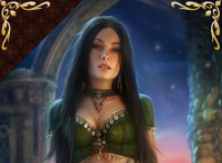
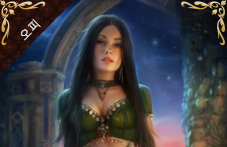
Change images design and update
Change images design and update

diff --git a/theme/NB-Basic/widget/basic-wr-gallery/widget.rows.php b/theme/NB-Basic/widget/basic-wr-gallery/widget.rows.php
@@ -88,7 +88,7 @@ for ($i=0; $i < $list_cnt; $i++) {
         <div>
             <div class="img-wrap bg-light mb-2">
 				<?php if($list[$i]['mb_2'] == "안마" ){?>
-                <div class="img-item" style="background-image:url('<?php echo G5_IMG_URL?>/anma5.png')" style="height: 148px;">
+                <div class="img-item" style="background-image:url('<?php echo G5_IMG_URL?>/anma.png')" style="height: 148px;">
 					<a href="<?php echo $list[$i]['href'] ?>"<?php echo $target ?>>
 						<?php echo $wr_tack ?>
 						<?php echo $wr_cap ?>
@@ -110,7 +110,7 @@ for ($i=0; $i < $list_cnt; $i++) {
 				</div>
 				<?php }?>
 				<?php if($list[$i]['mb_2'] == "휴게텔" ){?>
-                <div class="img-item" style="background-image:url('<?php echo G5_IMG_URL?>/yupcatel.png')" style="height: 148px;">
+                <div class="img-item" style="background-image:url('<?php echo G5_IMG_URL?>/hyugetel.png')" style="height: 148px;">
 					<a href="<?php echo $list[$i]['href'] ?>"<?php echo $target ?>>
 						<?php echo $wr_tack ?>
 						<?php echo $wr_cap ?>
@@ -121,7 +121,7 @@ for ($i=0; $i < $list_cnt; $i++) {
 				</div>
 				<?php }?>
 				<?php if($list[$i]['mb_2'] == "건마" ){?>
-                <div class="img-item" style="background-image:url('<?php echo G5_IMG_URL?>/gonma5.png')" style="height: 148px;">
+                <div class="img-item" style="background-image:url('<?php echo G5_IMG_URL?>/gonma.png')" style="height: 148px;">
 					<a href="<?php echo $list[$i]['href'] ?>"<?php echo $target ?>>
 						<?php echo $wr_tack ?>
 						<?php echo $wr_cap ?>
@@ -132,7 +132,7 @@ for ($i=0; $i < $list_cnt; $i++) {
 				</div>
 				<?php }?>
 				<?php if($list[$i]['mb_2'] == "립카페" ){?>
-                <div class="img-item" style="background-image:url('<?php echo G5_IMG_URL?>/cafe5.png')" style="height: 148px;">
+                <div class="img-item" style="background-image:url('<?php echo G5_IMG_URL?>/gibcafe.png')" style="height: 148px;">
 					<a href="<?php echo $list[$i]['href'] ?>"<?php echo $target ?>>
 						<?php echo $wr_tack ?>
 						<?php echo $wr_cap ?>

diff --git a/skin/board/gallery/list.skin.php b/skin/board/gallery/list.skin.php
@@ -161,15 +161,15 @@ add_stylesheet('<link rel="stylesheet" href="' . $board_skin_url . '/style.css">
                                     <?php } else {
                                         $picname = '';
                                         if ($list[$i]['mb_2'] == "안마") {
-                                            $picname = "anma5";
+                                            $picname = "anma";
                                         } else if ($list[$i]['mb_2'] == "오피") {
                                             $picname = "office";
                                         } else if ($list[$i]['mb_2'] == "건마") {
-                                            $picname = "gonma5";
+                                            $picname = "gonma";
                                         } else if ($list[$i]['mb_2'] == "립카페") {
-                                            $picname = "cafe5";
+                                            $picname = "gibcafe";
                                         } else if ($list[$i]['mb_2'] == "휴게텔") {
-                                            $picname = "yupcatel";
+                                            $picname = "hyugetel";
                                         }
                                         $imagee = '<img src="' . G5_IMG_URL . '/' . $picname . '.png">';
                                         echo $imagee;
